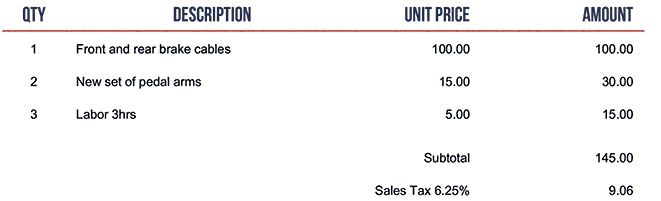
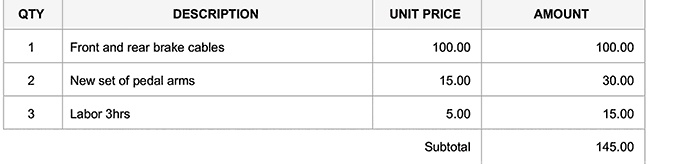
added result html

diff --git a/app/templates/index.html b/app/templates/index.html
@@ -1,7 +1,7 @@
 <!DOCTYPE html>
 <html lang="en">
     <head>
-        <title>IPL match Winner Prediction</title>
+        <title>Table data Extraction</title>
         <meta charset="utf-8">
         <meta name="viewport" content="width=device-width, initial-scale=1">
         <link href="https://cdn.jsdelivr.net/npm/bootstrap@5.1.3/dist/css/bootstrap.min.css" rel="stylesheet">
@@ -13,13 +13,14 @@
             <div class="col-md-6 container">
                 <div class="container p-2 mb-3 border">
                     <center>
-                        <h1>IPL match Winner Prediction</h1>
+                        <h1>Extracting Table data from Invoice Image</h1>
                     </center>
                 </div>
                 <form action="{{ url_for("predict")}}" method="post" enctype="multipart/form-data">
-                    <input type="file" id="file" name="file" accept="image/*">
-                    <br>
-                    <button class="btn btn-info" type="submit">Predict</button>
+                    <div class="input-group">
+                        <input type="file" name="file" class="form-control" id="inputGroupFile04" aria-describedby="inputGroupFileAddon04" aria-label="Upload">
+                        <button class="btn btn-success" type="submit" id="inputGroupFileAddon04">Go Extract</button>
+                    </div>
                 </form>
             </div>
             <div class="col-md-3"></div>

diff --git a/app/templates/result.html b/app/templates/result.html
@@ -1,2 +1,14 @@
-<br><br>
-<center><p>The winner is : <b>{{ result }}</b></p></center>
+<!DOCTYPE html>
+<html lang="en">
+    <head>
+        <title>IPL match Winner Prediction</title>
+    </head>
+    <body>
+        <button><a href="http://127.0.0.1:5000/"> < Back to Home </a></button><br><br>
+                
+            {{ result|safe }}
+
+        <br><br>
+        <button><a href="http://127.0.0.1:5000/download"> Download results.csv file </a></button>
+    </body>
+</html>

diff --git a/app/main.py b/app/main.py
@@ -4,6 +4,7 @@ import numpy as np
 import torch
 import requests
 import json
+import pandas as pd
 
 app = Flask(__name__)
 
@@ -77,8 +78,11 @@ def predict():
         else:
                 print(resp.content)
         
-        response_data = {'data': {'no_of_tables ': nt, 'img_shape':img.shape, 'tbl_shape': tbl_img.shape, 'table_data': tbl_rows}}
-        return response_data
+        df = pd.DataFrame(tbl_rows[1:], columns=tbl_rows[0])
+        df_html = df.to_html()
+        
+        # response_data = {'data': {'no_of_tables ': nt, 'img_shape':img.shape, 'tbl_shape': tbl_img.shape, 'table_data': tbl_rows}}
+        return render_template("result.html", result = df_html)
 
 @app.route("/download")
 def download():
